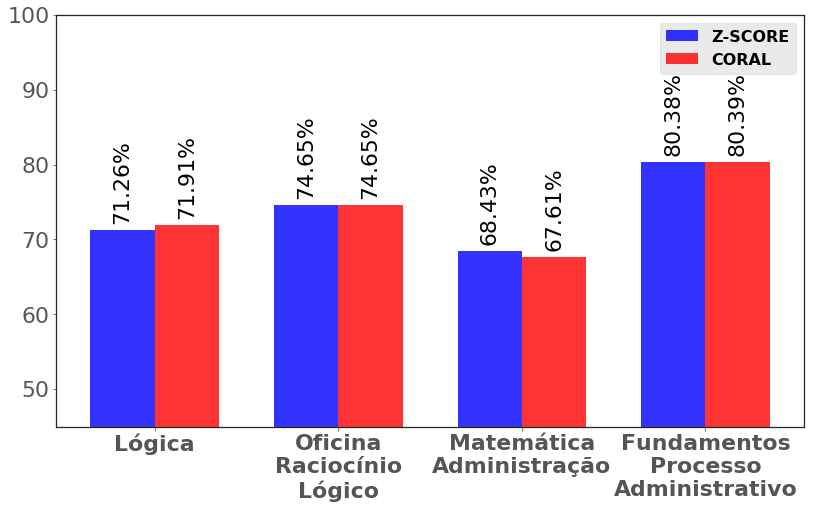
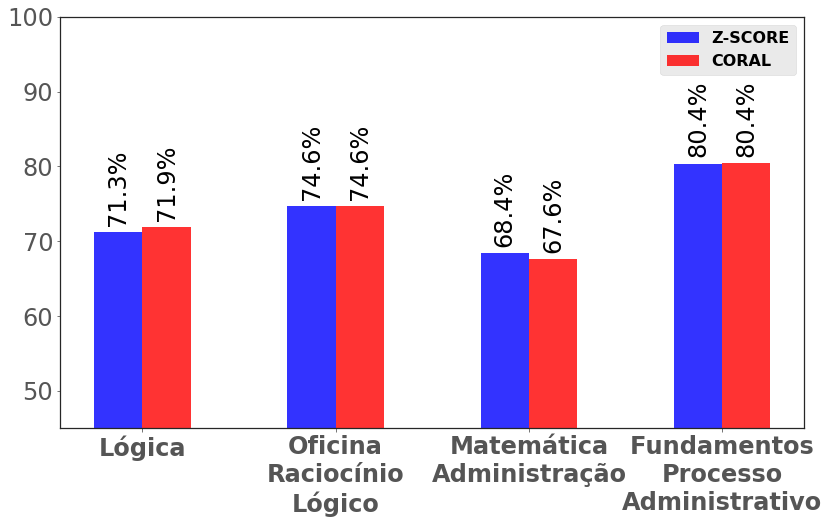
Ajuste tamanho fonte gráfico

Changed region(s): [[0.0, 0.0, 1.0, 1.0]]

diff --git a/Dataset/Algoritmos/Experimento final/ml_normalizacao_novo.py b/Dataset/Algoritmos/Experimento final/ml_normalizacao_novo.py
@@ -68,8 +68,8 @@ def autolabel(rects, ax):
         height = rect.get_height()
         label_position = height + (y_height * 0.01)
         ax.text(rect.get_x() + rect.get_width()/2., label_position,
-                '%.2f%%' % height,
-                ha='center', va='bottom', size = tamFonte + 6, rotation=90)
+                '%.1f%%' % height,
+                ha='center', va='bottom', size = tamFonte + 8, rotation=90)
         
 
 #Carrega dataset
@@ -81,7 +81,7 @@ plt.rcParams['figure.figsize'] = (11,7)
 #-------------------------------------------------------
 # Configuração de filtros para o dataset
 modulo_s = 6 #0 = ignora o módulo. Lembrando que só existem os módulos 3 e 6
-classificador = 3
+classificador = 1
 
 features = {
         50404: ['Questionario_Quantidade_Somado', 'Forum_TempoUso_Somado', 'Log_Post_Quantidade_Somado', 'Questionario_TempoUso_Somado', 'Login_Quantidade','Turno_TempoUsoTotal_Somado', 'Evadido','CodigoTurma'],
@@ -210,7 +210,7 @@ plt.savefig('accur_m{}_{}'.format(modulo_s, classif_str))
 #-----------------------#
 #
 #-----------------------#
-width=0.35
+width=0.25
 opacity = 0.8
 tamFonte = 16
 
@@ -255,8 +255,8 @@ ax.patch.set_facecolor('w')
 axes = plt.gca()
 axes.set_ylim([45,100])
 
-plt.tick_params(axis='y', labelsize = tamFonte + 6)
-plt.tick_params(axis='x', labelsize = tamFonte + 6)
+plt.tick_params(axis='y', labelsize = tamFonte + 8)
+plt.tick_params(axis='x', labelsize = tamFonte + 8)
 plt.show()
 plt.savefig('gmean_m{}_{}'.format(modulo_s, classif_str))
 
